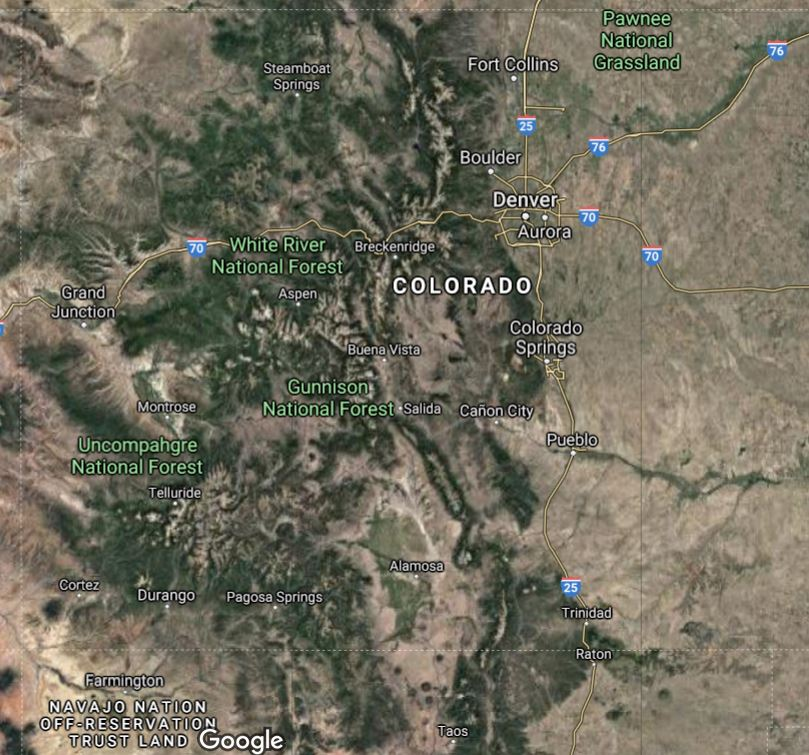
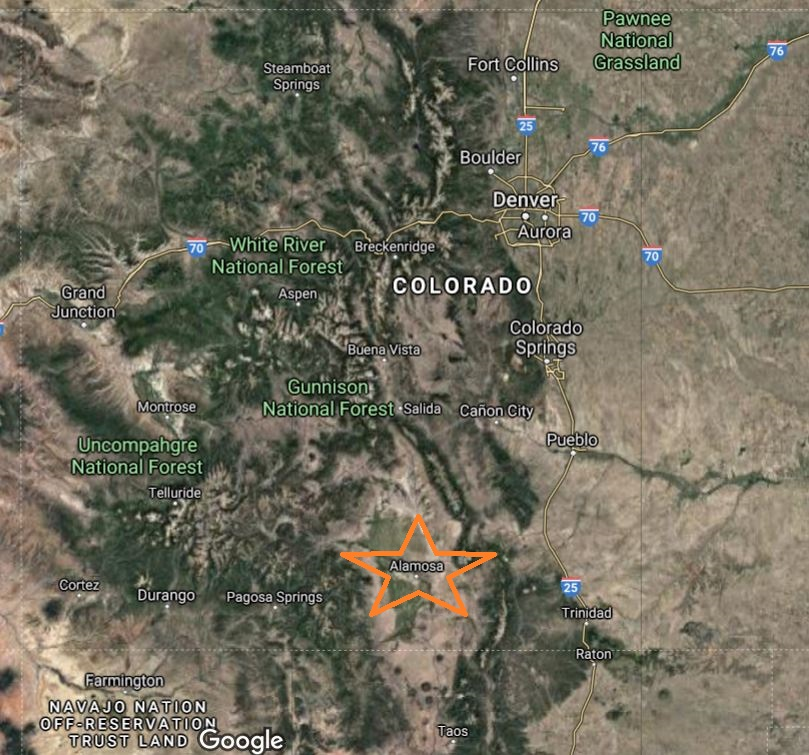
mark on the map ez

Changed region(s): [[0.4017, 0.6702, 0.618, 0.8225]]

diff --git a/06_weather_api/Master/leaf_nav.js b/06_weather_api/Master/leaf_nav.js
@@ -7,8 +7,9 @@ $.each($(".leaflet_city"), function (i, v) {
     $( this )
     .addClass( 'btn-primary' )
     .addClass( 'text-light' )
-    ;
-    
+      ;
+    $("#leaf_selected_img").attr("src", "img/maps/"+$(this).text().slice(0,4).toLowerCase()+".jpg");
+    console.log("img/maps/" + city.slice(0, 4).toLowerCase() + ".jpg");
     $( this )
       .siblings()
       .removeClass( 'btn-primary' )

diff --git a/06_weather_api/Master/index.html b/06_weather_api/Master/index.html
@@ -145,6 +145,7 @@
           <span id="leaf_selected_city">Denver</span>
         </h3>
         <div class="card-body bg-dark rounded">
+          <img class="card-img" src="img/maps/denv.jpg" alt="show-on-map"  id="leaf_selected_img">
 
         </div>
         <img class="card-img-bottom" src="" alt="">
